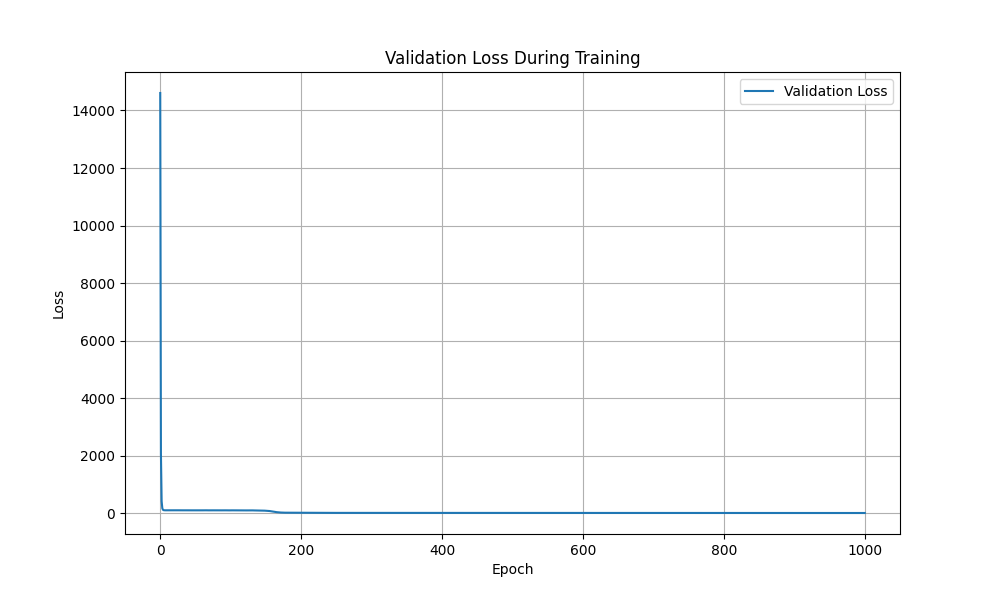
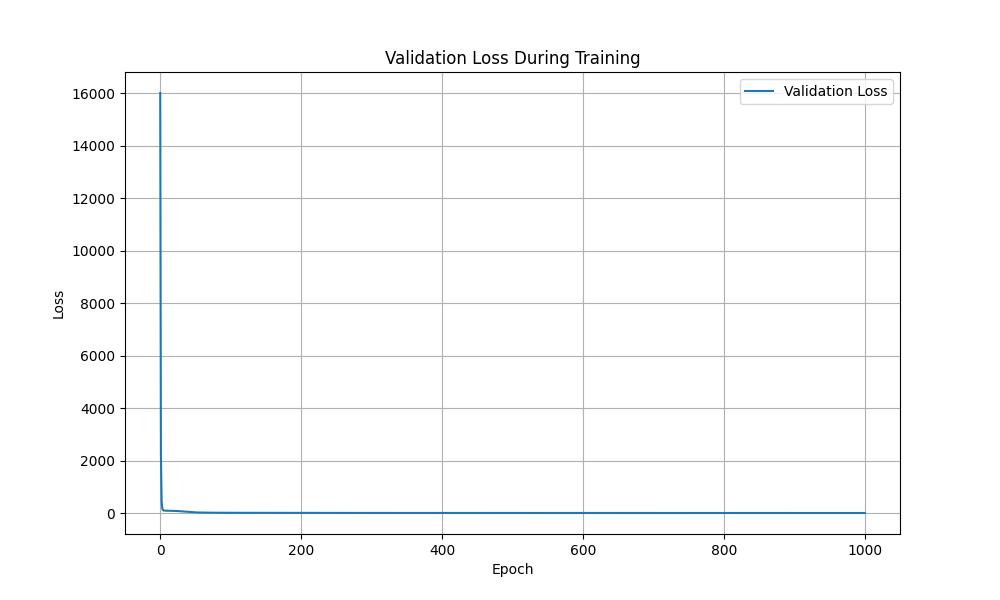
poprawka macka

diff --git a/maciek.py b/maciek.py
@@ -27,7 +27,6 @@ def load_and_preprocess(city):
     wind_dir_cos = wind_dir.resample('D', on='datetime')['cos'].mean().rename('wind_dir_cos')
     
     # Weather descriptions (binary flags)
-    # Weather descriptions (binary flags)
     weather = pd.read_csv('weather_description.csv', parse_dates=['datetime'])
     keywords = ['rain', 'snow', 'cloud', 'clear', 'thunderstorm']
     weather[city] = weather[city].fillna('').astype(str)  # Convert all values to strings
@@ -44,6 +43,9 @@ def load_and_preprocess(city):
     features = temp.join(humidity).join(pressure).join(wind_speed_max).join(wind_speed_mean)
     features = features.join(wind_dir_sin).join(wind_dir_cos).join(weather_daily)
     
+    # Add rolling mean for temperature
+    #features['temp_rolling_mean'] = features['temp_mean'].rolling(window=3).mean()
+
     # Create labels (next day's temperature and wind)
     features['temp_target'] = features['temp_mean'].shift(-1)
     features['wind_target'] = (features['wind_speed_max'].shift(-1) >= 10).astype(int)
@@ -51,13 +53,14 @@ def load_and_preprocess(city):
     
     return features
 
-def create_sequences(data, window_size=3):
+
+def create_sequences(data, window_size=3, stride=1):
     X, y_temp, y_wind = [], [], []
-    for i in range(len(data) - window_size):
+    for i in range(0, len(data) - window_size, stride):
         window = data.iloc[i:i+window_size]
-        X.append(window.values.flatten())
-        y_temp.append(data.iloc[i+window_size]['temp_target'])
-        y_wind.append(data.iloc[i+window_size]['wind_target'])
+        X.append(window.values.flatten())  # Flatten the window into a single row
+        y_temp.append(data.iloc[i+window_size]['temp_target'])  # Target for the next day
+        y_wind.append(data.iloc[i+window_size]['wind_target'])  # Binary wind target
     return np.array(X), np.array(y_temp), np.array(y_wind)
 
 # Example for New York
@@ -184,9 +187,21 @@ def plot_log_loss(loss_history, filename='validation_loss_log.png'):
     plt.savefig(filename)
     plt.close()
 
+def plot_predictions(y_true, y_pred, filename='predictions_vs_actual.png'):
+    plt.figure(figsize=(12, 6))
+    plt.plot(y_true, label='Actual', color='blue', alpha=0.7)
+    plt.plot(y_pred, label='Predicted', color='red', alpha=0.7)
+    plt.xlabel('Test Sample Index')
+    plt.ylabel('Temperature (°C)')
+    plt.title('Predicted vs Actual Temperatures')
+    plt.legend()
+    plt.grid(True)
+    plt.savefig(filename)
+    plt.close()
+
 # Initialize and train
 input_size = X_train.shape[1]
-model = MLP(input_size, hidden_sizes=[512, 256, 128], output_size=2)
+model = MLP(input_size, hidden_sizes=[256, 128], output_size=2)
 loss_history = model.train(X_train, y_temp_train, y_wind_train, epochs=1000, lr=0.0001)
 
 # Plot and save
@@ -204,3 +219,5 @@ accuracy_within_2deg = (absolute_errors <= 2).mean() * 100
 print(f'Temperature MAE: {mae:.2f}°C')
 print(f'Temperature Accuracy (±2°C): {accuracy_within_2deg:.2f}%')
 print(f'Wind AUC: {auc:.2f}')
+
+plot_predictions(y_temp_test, temp_pred)
